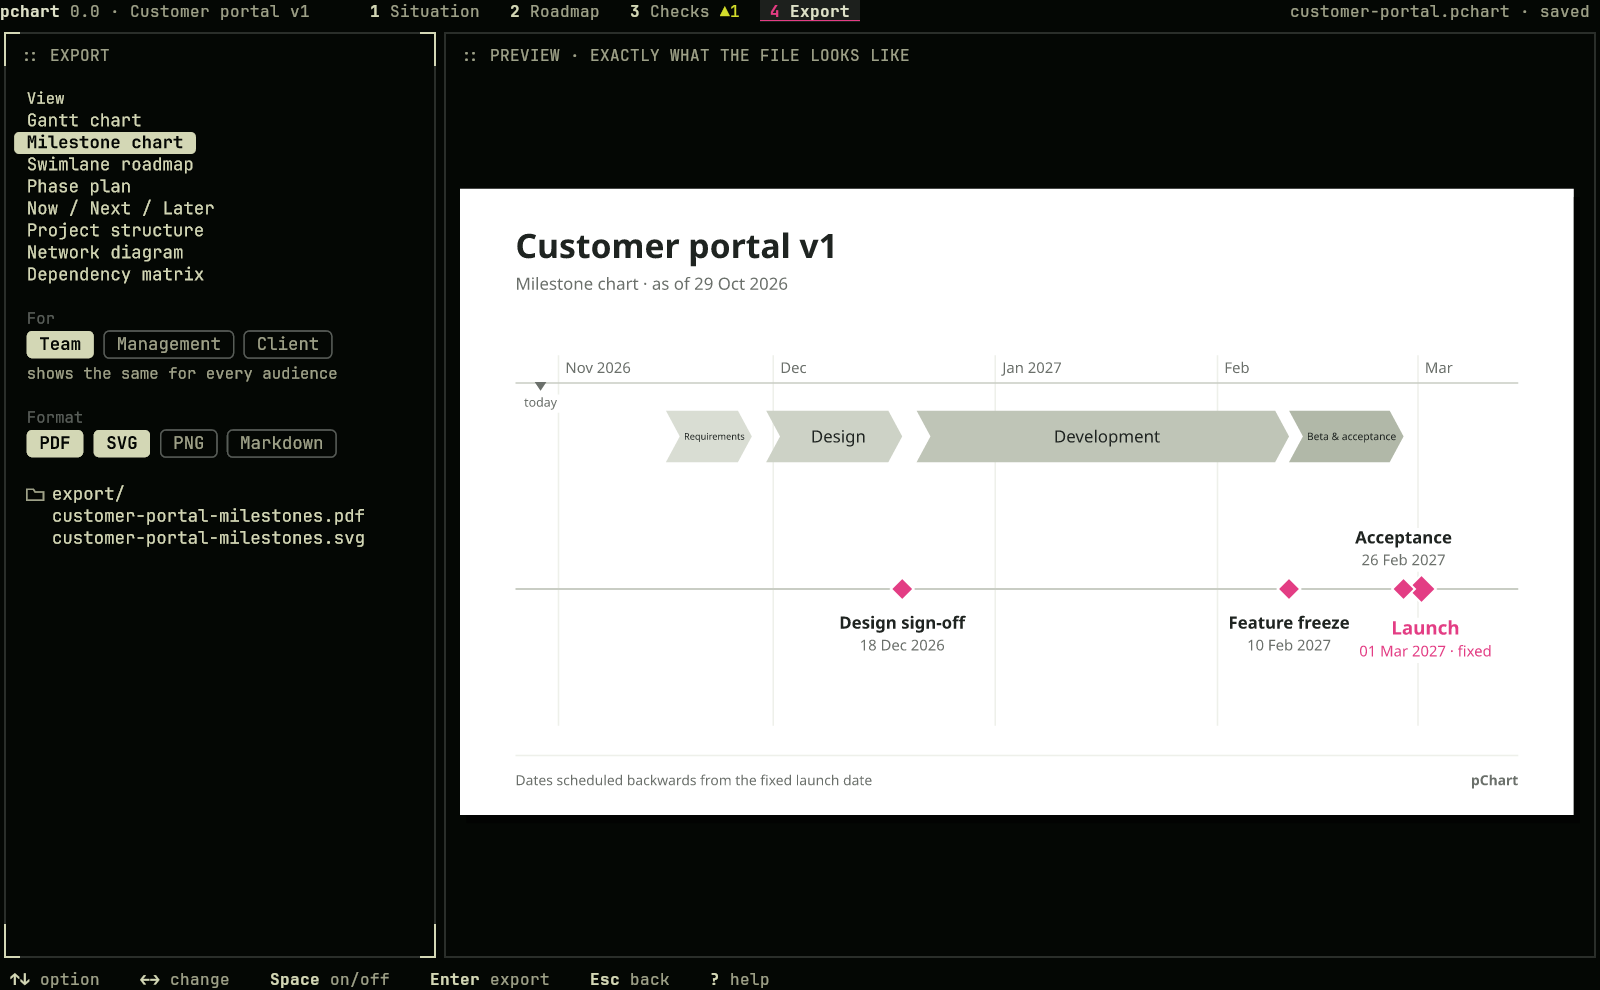
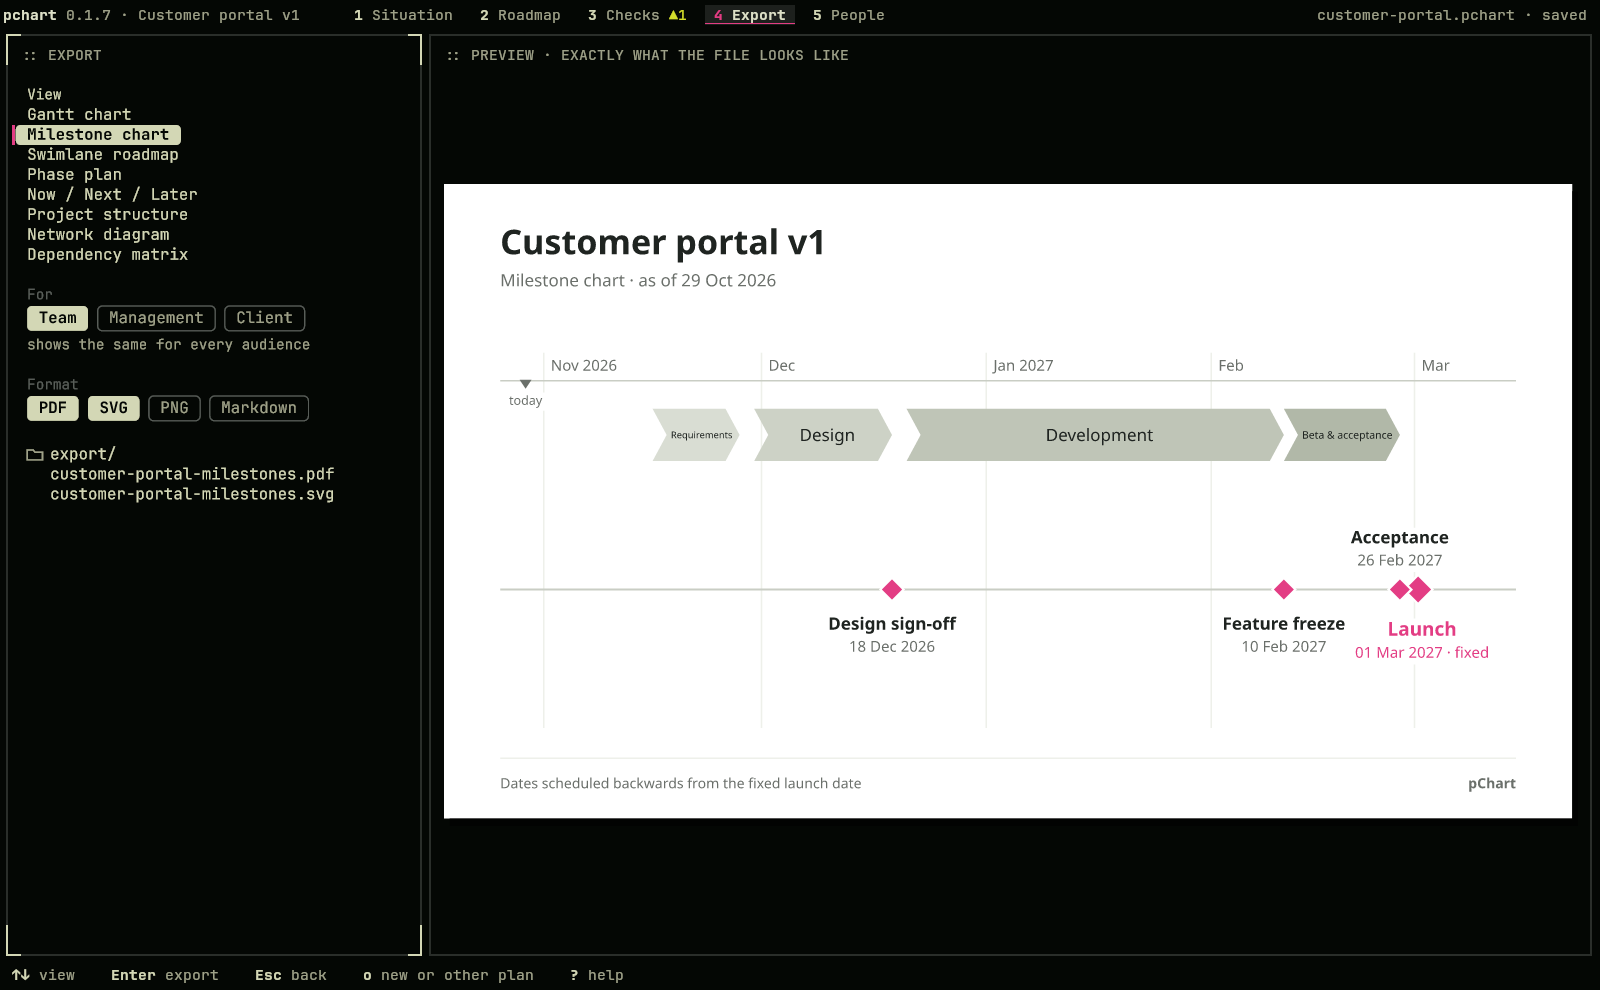
Show the current pChart in the README and the video
The roadmap and the export taken anew with 0.1.7, the video recorded anew (People now needs one step down to Lena Vogel, since teams are headings), and the README's keys as they are: 1-6 and Tab, Space, F5, o and the arrows of the export.

diff --git a/tools/video/timeline.py b/tools/video/timeline.py
@@ -18,7 +18,7 @@ KEYS = [
     (11.0, "2"), (12.6, "y"), (14.4, "down"), (15.8, "down"), (17.4, "esc"),
     (19.0, "3"), (21.4, "b"),
     (24.0, "4"), (25.4, "left"), *[(27.4 + index * 0.3, "right") for index in range(6)], (30.6, "right"),
-    (33.0, "5"), (35.0, "down"), (35.6, "down"), (36.2, "down"), *[(37.4 + index * 0.35, "right") for index in range(5)],
+    (33.0, "5"), (35.0, "down"), *[(37.4 + index * 0.35, "right") for index in range(5)],
     (42.4, "6"), (45.0, "enter"),
     (48.6, "q"),
 ]

diff --git a/README.md b/README.md
@@ -29,7 +29,7 @@ cargo build --release
 
 `pchart` alone starts a new plan: ↑↓ picks a template, the date typed is the target (or with ←→ the start), and Enter writes the plan to the current folder and opens it.
 
-1–4 switch between the situation, the roadmap, the checks and the export; ↑↓ chooses a statement, an item or a check, Enter shows it in the roadmap, d changes the detail level, Esc goes back to the situation, q quits. On the export screen ←→ changes the view or the audience, Space switches a format on or off and Enter writes the files to `export/` next to the plan.
+1–6 or Tab switch between the situation, the roadmap, the checks, the export, the people and, in a team, the reports; ↑↓ chooses a statement, an item, a check or a person, Enter shows it in the roadmap, Space shows the details of an item, d switches between overview and full, F5 presents the situation in a meeting, o goes to the projects or another plan, q quits. On the export screen ↑↓ chooses the view, the audience or the formats, ←→ changes them, Space switches a format on or off and Enter writes the files to `export/` next to the plan. Enter on the People screen makes the plan's folder a team.
 
 ## Install
 
